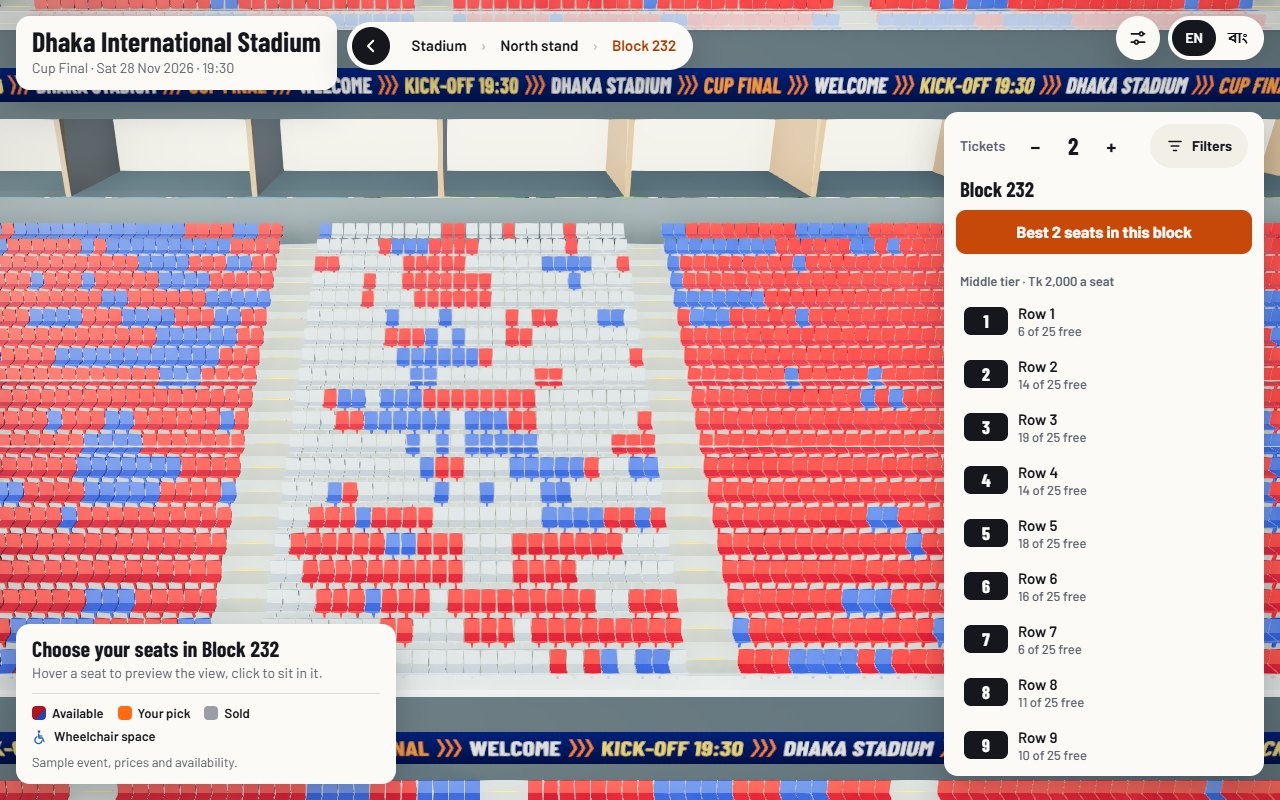
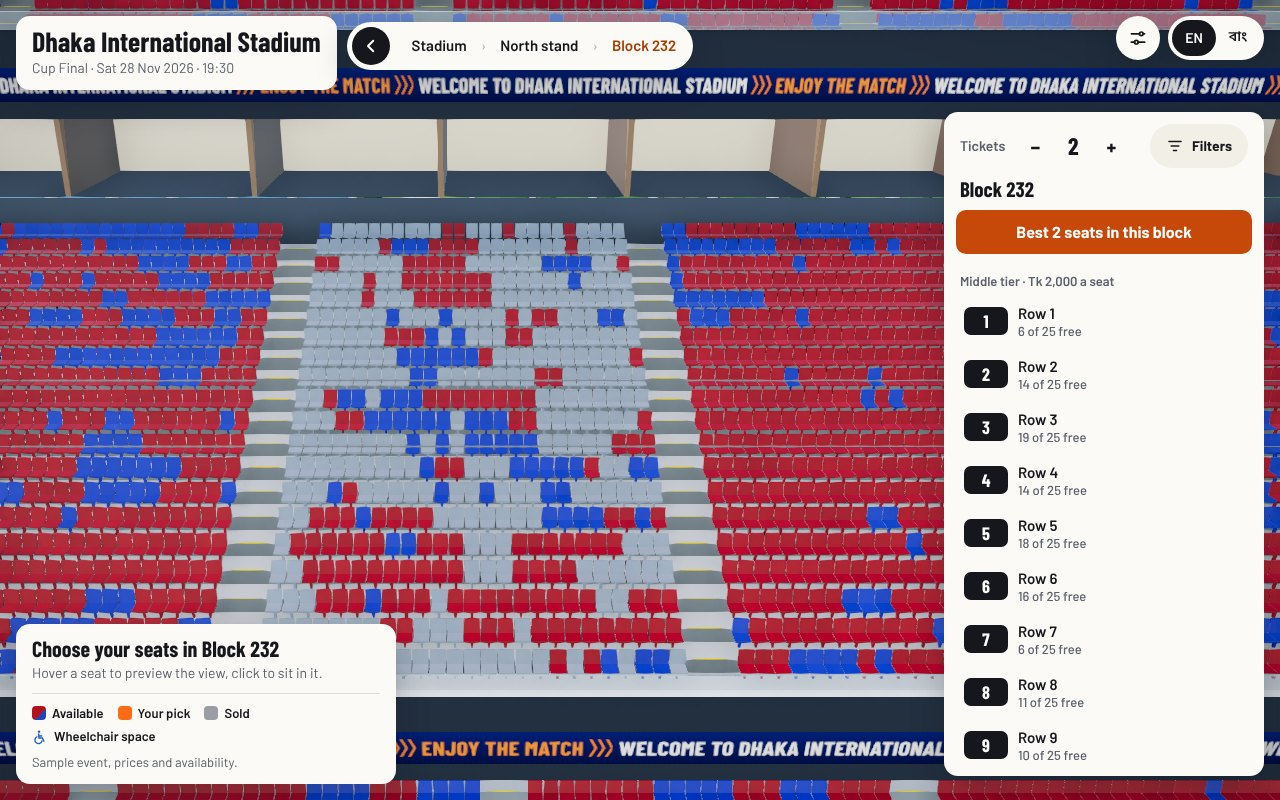
Remove golden hour lighting and make day the default
Drop the golden-hour preset from the engine and from View settings, so the
lighting choices are day, blue hour and night match. The scene's sky, fog,
lights and environment map are now built for day from the start, and the
lighting rig, the engine and the picker default to it.

Remove the "Golden hour" label in English and Bengali, and describe the
link-preview image as daylight in both languages. Render the home hero
posters and the README screenshots again by day, and update the README,
the tests, the architecture notes and the decision log.

diff --git a/src/engine/lighting.ts b/src/engine/lighting.ts
@@ -1,13 +1,13 @@
 /**
  * Lighting presets (PROMPT.md 6.6, item 3) with a smooth 1.5 s transition:
- * - golden hour (default): sun in the south-west about 22 degrees high, warm light;
- * - day: sun high, neutral light;
+ * - day (default): sun high in the south-west, neutral light;
  * - blue hour: the sun just set, a deep blue sky, the lights already on;
  * - night: the sun below the horizon, moonlight and a dim hemisphere; floodlight strips under the roof's inner
  *   edge, spot lights on the pitch (no shadows), LED ribbons, screens and facade windows bright enough to
  *   bloom, facade fins washed in the brand colour, a light strip along the roof's edge, stars and a moon.
  * Values are blended every frame of a transition; the environment map is rebuilt for the target preset at
- * its end (and cached). Painted ground shadows match the golden sun only, so other presets fade them.
+ * its end (and cached). Painted ground shadows are drawn for a sun 22 degrees high (SUN_DIR in park.ts), so
+ * day softens them and the evening presets hide them.
  */
 import * as THREE from 'three';
 import { brand } from '@/config/brand';
@@ -48,45 +48,16 @@ export function sunColor(elevation: number): THREE.Color {
   return gold.lerp(high, THREE.MathUtils.clamp((elevation - 22) / 36, 0, 1));
 }
 
-/** The golden-hour sun of the prototype (SUN_DIR): azimuth 145 degrees, 22 degrees high. */
-const GOLDEN_AZ = 145;
+/** The sun's azimuth in the prototype (SUN_DIR in park.ts): 145 degrees, south-west. */
+const SUN_AZ = 145;
 
 export const LOOKS: Record<LightingPreset, Look> = {
-  golden: {
-    sky: {
-      elevation: 22,
-      azimuth: GOLDEN_AZ,
-      turbidity: 8,
-      rayleigh: 2.2,
-      mie: 0.006,
-      mieG: 0.88,
-      gain: 0.55,
-      clouds: 0.35,
-      horizonTint: [1, 1, 1],
-      zenithTint: [1, 1, 1],
-    },
-    lightElevation: 22,
-    lightAzimuth: GOLDEN_AZ,
-    lightColor: sunColor(22),
-    lightIntensity: 3.1,
-    hemiSky: c('#cfe0f5'),
-    hemiGround: c('#5d6b46'),
-    hemiIntensity: 0.35,
-    fog: c('#e9d9c1'),
-    fogNear: 900,
-    fogFar: 5200,
-    exposure: 0.92,
-    envIntensity: 1,
-    paintedShadows: 1,
-    cloudShadows: 0.32,
-    night: 0,
-  },
   day: {
-    // Same azimuth as golden hour, so the painted ground shadows only fade and never point the wrong way
+    // Same azimuth as the painted ground shadows, so they only fade and never point the wrong way
     // (pitfall 14).
     sky: {
       elevation: 58,
-      azimuth: GOLDEN_AZ,
+      azimuth: SUN_AZ,
       turbidity: 4,
       rayleigh: 1.4,
       mie: 0.004,
@@ -97,9 +68,9 @@ export const LOOKS: Record<LightingPreset, Look> = {
       zenithTint: [1, 1, 1],
     },
     lightElevation: 58,
-    lightAzimuth: GOLDEN_AZ,
+    lightAzimuth: SUN_AZ,
     lightColor: sunColor(58),
-    // A high sun lights flat surfaces about twice as strongly as the golden-hour sun at 22 degrees.
+    // A high sun lights flat surfaces about twice as strongly as a sun 22 degrees high.
     lightIntensity: 1.9,
     hemiSky: c('#d9e8fb'),
     hemiGround: c('#66774d'),
@@ -122,7 +93,7 @@ export const LOOKS: Record<LightingPreset, Look> = {
     // the hour after sunset.
     sky: {
       elevation: -1.2,
-      azimuth: GOLDEN_AZ,
+      azimuth: SUN_AZ,
       turbidity: 3.2,
       rayleigh: 3.4,
       mie: 0.005,
@@ -135,7 +106,7 @@ export const LOOKS: Record<LightingPreset, Look> = {
       zenithTint: [0.2, 0.4, 1.7],
     },
     lightElevation: 34,
-    lightAzimuth: GOLDEN_AZ + 20,
+    lightAzimuth: SUN_AZ + 20,
     lightColor: c('#87a1e8'),
     lightIntensity: 0.8,
     hemiSky: c('#7088d2'),
@@ -153,7 +124,7 @@ export const LOOKS: Record<LightingPreset, Look> = {
   night: {
     sky: {
       elevation: -8,
-      azimuth: GOLDEN_AZ,
+      azimuth: SUN_AZ,
       turbidity: 2,
       rayleigh: 0.8,
       mie: 0.003,
@@ -260,9 +231,9 @@ export class LightingRig {
       membraneEmissive: L.membrane.emissiveIntensity,
       membraneUnder: L.membraneUnder.emissiveIntensity,
     };
-    this.target = 'golden';
-    this.current = LOOKS.golden;
-    this.envs.set('golden', L.env);
+    this.target = 'day';
+    this.current = LOOKS.day;
+    this.envs.set('day', L.env);
     this.apply(this.current);
   }
 

diff --git a/src/engine/world/scene.ts b/src/engine/world/scene.ts
@@ -66,7 +66,7 @@ export interface World {
     spots: THREE.SpotLight[];
     /** The floodlights' spill on the stands (night only). */
     bowlFill: THREE.PointLight;
-    /** The golden-hour environment (the lighting rig owns and disposes it). */
+    /** The environment of the default preset, day (the lighting rig owns and disposes it). */
     env: THREE.WebGLRenderTarget;
     flood: THREE.MeshBasicMaterial;
     roofEdge: THREE.MeshBasicMaterial;
@@ -121,14 +121,14 @@ export function buildWorld(renderer: THREE.WebGLRenderer, data: BuildData, opts:
   const extra: { dispose: () => void }[] = [];
   const maxAniso = Math.min(8, renderer.capabilities.getMaxAnisotropy());
 
-  /* lights, sky, fog (the lighting rig sets them per preset; these are golden hour) */
-  scene.fog = new THREE.Fog(new THREE.Color('#e9d9c1'), 900, 5200);
+  /* lights, sky, fog (the lighting rig sets them per preset; these start as day, the default) */
+  scene.fog = new THREE.Fog(LOOKS.day.fog, LOOKS.day.fogNear, LOOKS.day.fogFar);
   const sky = makeSky();
-  setSky(sky, LOOKS.golden.sky);
+  setSky(sky, LOOKS.day.sky);
   const stars = makeStars();
   const moon = makeMoon(dirFrom(LOOKS.night.lightElevation, LOOKS.night.lightAzimuth));
   scene.add(sky, stars, moon);
-  const sun = new THREE.DirectionalLight(new THREE.Color('#ffdcb2'), 3.1);
+  const sun = new THREE.DirectionalLight(LOOKS.day.lightColor, LOOKS.day.lightIntensity);
   sun.position.copy(sunDir).multiplyScalar(520);
   sun.castShadow = true;
   sun.shadow.mapSize.set(opts.shadowMapSize, opts.shadowMapSize);
@@ -138,12 +138,12 @@ export function buildWorld(renderer: THREE.WebGLRenderer, data: BuildData, opts:
   sun.shadow.radius = 2;
   sun.shadow.camera.updateProjectionMatrix();
   scene.add(sun, sun.target);
-  const hemi = new THREE.HemisphereLight(new THREE.Color('#cfe0f5'), new THREE.Color('#5d6b46'), 0.35);
+  const hemi = new THREE.HemisphereLight(LOOKS.day.hemiSky, LOOKS.day.hemiGround, LOOKS.day.hemiIntensity);
   scene.add(hemi);
   const boxLight = new THREE.PointLight(new THREE.Color('#ffd6a3'), 0, 11, 2);
   scene.add(boxLight);
 
-  const env = skyEnvironment(renderer, LOOKS.golden.sky);
+  const env = skyEnvironment(renderer, LOOKS.day.sky);
   scene.environment = env.texture;
   const ambient = createAmbientUniforms();
   ambient.uCloudSun.value.copy(sunDir);

diff --git a/src/engine/StadiumEngine.ts b/src/engine/StadiumEngine.ts
@@ -134,7 +134,7 @@ export class StadiumEngine {
   private auto: AutoTier;
   private frameTimes: number[] = [];
   private statsTimer = 0;
-  private lighting: LightingPreset = 'golden';
+  private lighting: LightingPreset = 'day';
   /** The visitor's crowd toggle (the crowd shows in seat and box views). */
   private crowdWanted = true;
   /** When the home hero's crowd starts its next wave (frame time; 0 = not scheduled yet). */
@@ -280,7 +280,7 @@ export class StadiumEngine {
     this.post.configure(TIERS[this.tier]);
     this.lightingRig = new LightingRig(world, renderer);
     this.lightingRig.setClouds(tier.cloudShadows);
-    if (this.lighting !== 'golden') this.lightingRig.set(this.lighting, true);
+    if (this.lighting !== 'day') this.lightingRig.set(this.lighting, true);
     this.crowd = new Crowd(this.layout, this.opts.text, world.ambient);
     this.crowd.scaleIn = !(this.opts.freeze || this.opts.reducedMotion);
     this.crowd.setStatuses(this.statuses);
@@ -691,7 +691,7 @@ export class StadiumEngine {
     this.events.emit('quality', { tier: this.tier, setting });
   }
 
-  /** Golden hour (default), day or night, with a 1.5 s transition (instant on request or reduced motion). */
+  /** Day (default), blue hour or night, with a 1.5 s transition (instant on request or reduced motion). */
   setLighting(preset: LightingPreset, instant = false) {
     this.lighting = preset;
     this.lightingRig?.set(preset, instant || this.opts.reducedMotion);

diff --git a/tests/engine-logic.test.ts b/tests/engine-logic.test.ts
@@ -50,17 +50,17 @@ describe('lighting presets', () => {
     expect(LOOKS.night.cloudShadows).toBe(0);
     expect(LOOKS.night.paintedShadows).toBe(0);
     expect(LOOKS.night.night).toBe(1);
-    expect(LOOKS.golden.night).toBe(0);
+    expect(LOOKS.day.night).toBe(0);
   });
 
   it('blends between presets and lands exactly on the target', () => {
-    const half = mixLook(LOOKS.golden, LOOKS.night, 0.5);
+    const half = mixLook(LOOKS.day, LOOKS.night, 0.5);
     expect(half.night).toBeCloseTo(0.5);
-    expect(half.exposure).toBeCloseTo((LOOKS.golden.exposure + LOOKS.night.exposure) / 2);
-    const end = mixLook(LOOKS.golden, LOOKS.day, 1);
+    expect(half.exposure).toBeCloseTo((LOOKS.day.exposure + LOOKS.night.exposure) / 2);
+    const end = mixLook(LOOKS.night, LOOKS.day, 1);
     expect(end.lightIntensity).toBe(LOOKS.day.lightIntensity);
     expect(end.sky.elevation).toBe(LOOKS.day.sky.elevation);
     // Angles take the short way round.
-    expect(mixLook(LOOKS.golden, LOOKS.night, 1).lightAzimuth % 360).toBeCloseTo(LOOKS.night.lightAzimuth);
+    expect(mixLook(LOOKS.day, LOOKS.night, 1).lightAzimuth % 360).toBeCloseTo(LOOKS.night.lightAzimuth);
   });
 });

diff --git a/src/components/picker/Header.tsx b/src/components/picker/Header.tsx
@@ -208,7 +208,7 @@ function ViewSettings() {
     useShallow((s) => ({ engine: s.engine, tier: s.tier, status: s.status, level: s.nav.level })),
   );
   const [setting, setSetting] = useState<QualitySetting>('auto');
-  const [lighting, setLighting] = useState<LightingPreset>('golden');
+  const [lighting, setLighting] = useState<LightingPreset>('day');
   const [crowd, setCrowd] = useState(true);
   if (status !== 'ready' || !engine) return null;
   // The crowd (and so the wave) shows in seat and skybox views.
@@ -282,7 +282,7 @@ function ViewSettings() {
                 }}
                 className="mt-1.5 grid gap-1"
               >
-                {(['golden', 'day', 'dusk', 'night'] as const).map((p) => (
+                {(['day', 'dusk', 'night'] as const).map((p) => (
                   <Choice key={p} value={p} label={t(`lightings.${p}`)} />
                 ))}
               </RadioGroup.Root>

diff --git a/e2e/engine.spec.ts b/e2e/engine.spec.ts
@@ -73,7 +73,7 @@ test('lighting presets, crowd and wave', async ({ page }) => {
   // From a seat, the match is on: players, the referees and the ball on the pitch.
   expect(await page.evaluate(() => window.__stadium!.matchVisible)).toBe(true);
 
-  for (const preset of ['golden', 'day', 'dusk', 'night'] as const) {
+  for (const preset of ['day', 'dusk', 'night'] as const) {
     await page.evaluate((p) => window.__stadium!.setLighting(p), preset);
     expect(await page.evaluate(() => window.__stadium!.lighting)).toBe(preset);
     await idle(page);

diff --git a/src/components/home/HomeHero.tsx b/src/components/home/HomeHero.tsx
@@ -1,6 +1,6 @@
 'use client';
 /**
- * The home hero (PROMPT.md 8): a full-bleed 3D stadium at golden hour with the crowd and a slow orbit. A
+ * The home hero (PROMPT.md 8): a full-bleed 3D stadium by day with the crowd and a slow orbit. A
  * poster rendered from the same scene shows while the 3D view loads and when WebGL is missing (a portrait
  * one on narrow screens). Over it: the headline; beside it on desktops, below it on phones, the next match
  * with a countdown and "Choose your seats".

diff --git a/src/engine/types.ts b/src/engine/types.ts
@@ -3,7 +3,7 @@
 export type Level = 'loading' | 'intro' | 'overview' | 'stand' | 'block' | 'seat' | 'box' | 'vip';
 export type QualityTier = 'low' | 'medium' | 'high';
 export type QualitySetting = 'auto' | QualityTier;
-export type LightingPreset = 'golden' | 'day' | 'dusk' | 'night';
+export type LightingPreset = 'day' | 'dusk' | 'night';
 
 /** Where the camera is in the flow. Indices: stand 0-3, block/box by index, seat by seat index, vip 0-7. */
 export interface NavState {

diff --git a/src/components/home/HeroEngine.tsx b/src/components/home/HeroEngine.tsx
@@ -1,6 +1,6 @@
 'use client';
 /**
- * The home hero's 3D stadium: the engine in hero mode (golden hour, the crowd, a slow orbit, no input).
+ * The home hero's 3D stadium: the engine in hero mode (day, the crowd, a slow orbit, no input).
  * Loaded with next/dynamic and ssr: false; Strict Mode safe like the picker's EngineView.
  */
 import { useEffect, useRef } from 'react';

diff --git a/src/app/opengraph-image.tsx b/src/app/opengraph-image.tsx
@@ -1,7 +1,7 @@
 import { brand } from '@/config/brand';
 import { OG_SIZE, ogImage } from '@/lib/og';
 
-export const alt = `${brand.name} in 3D at golden hour`;
+export const alt = `${brand.name} in 3D in daylight`;
 export const size = OG_SIZE;
 export const contentType = 'image/png';
 

diff --git a/docs/DECISIONS.md b/docs/DECISIONS.md
@@ -220,3 +220,11 @@ The user pointed to another developer's San Siro build (a Blender scene with the
 - **Cost**: about 40 more draw calls and 0.5 million more triangles at the overview on High; on this laptop's GPU the frame time didn't change measurably (the ambient scheduler caps at 30 fps). In software rendering (SwiftShader, the E2E browser) the city, the metro and the match together cost about 5% of a frame (2.54 s against 2.41 s at the overview, measured by leaving them out). Low still lights the city with the Lambert model (no environment map), draws 30% of the blocks beyond 1.15 km and leaves out the rooftops.
 - **The framing eases by real time.** The 3D view slides away from the panels and the ticket with an ease that stepped at most 0.1 s per frame, so it needed about a dozen frames however slow they were: half a minute in software rendering, seconds on a weak phone. It now steps by the real time between frames (up to 1 s): unchanged at 60 fps (43 frames over 1.3 s when hiding the ticket on this GPU), a frame or two on a slow renderer. The first frame after the engine sleeps is timed from the moment it is requested, so waking never jumps.
 - **E2E tests wait for the engine to sleep** through a new `busy` test hook (a frame scheduled or a flight running), on three polls in a row. The old wait (no new frame for 1.5 s) returned between two frames whenever a software-rendered frame took longer than that, so clicks could land on a view still moving: the cause of the occasional failed click in the stand view. The stand and block clicks in the mouse picker spec now also wait for the view to settle, as the purchase spec does.
+
+## Golden hour removed, day by default (2026-11-25)
+
+The user asked for the golden-hour lighting to be removed and chose day as the new default.
+
+- **Three presets remain**: day (the default: the home hero, its posters and the picker), blue hour and night match. The sky, fog, lights and environment map are built for day from the start, so the engine starts without a switch; the view settings list the three.
+- **The painted ground shadows keep the prototype's sun direction** (`SUN_DIR` in `park.ts`: 145 degrees, 22 degrees high). Day keeps that azimuth (`SUN_AZ` in `lighting.ts`), so the shadows fade to 30% and never point the wrong way; the evening presets hide them, as before.
+- **The posters and the README screenshots were rendered again by day**; the Open Graph images read the landscape poster, so they follow it. The link-preview alt text says "in daylight" in English and Bengali.

diff --git a/README.md b/README.md
@@ -9,7 +9,7 @@ email is ever sent.
 
 **Live demo: [stadium-tickets.vercel.app](https://stadium-tickets.vercel.app)**
 
-![The home page: the stadium in 3D at golden hour, with the next match](docs/screenshots/home.jpg)
+![The home page: the stadium in 3D by day, with the next match](docs/screenshots/home.jpg)
 
 ## What it does
 
@@ -28,9 +28,9 @@ email is ever sent.
 
 **Graphics and animation** (three.js with post-processing)
 
-- Golden hour, day, blue hour and night match lighting with smooth transitions, a physical sky with clouds,
-  bloom on floodlights, LED ribbons and lit windows, and on the High tier ambient occlusion plus a
-  depth-of-field "Your view" picture.
+- Day, blue hour and night match lighting with smooth transitions, a physical sky with clouds, bloom on
+  floodlights, LED ribbons and lit windows, and on the High tier ambient occlusion plus a depth-of-field
+  "Your view" picture.
 - A match-day crowd: a spectator in every sold seat (camera-facing sprites from an atlas drawn in code, in
   the two teams' colours, with an away end), low-poly 3D people near the camera on the High tier, idle
   motion, and a Mexican wave that travels round the bowl (the home page's crowd starts one now and then).
